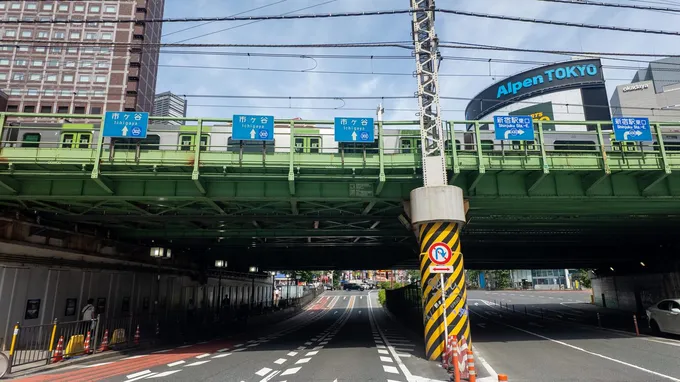
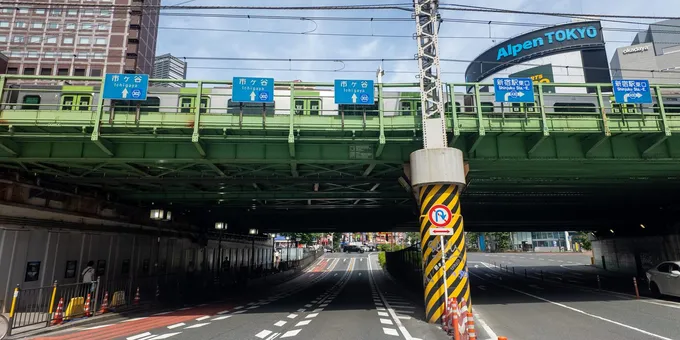
Shinjuku guide (WIP): register Shinjuku in the chain; hero-resize fix (T14)
- pocket_guides.json: Shinjuku Station entry; Osaka short label "Osaka" for the hub.
- w44, w45, w46, w48, w49, w55, w56: Shinjuku added to their guide lists; Narita and
  Haneda point on to Tokyo and Shinjuku; Shinjuku points on to the two airports.
- w47: rebuilds the hub block from the registry (writes only if it changed).
- w59: Shinjuku card on Travel Essentials; card image re-cropped to 680x340.
- w25, w31, w35, w36, w39, w42: without sips (Linux), resize the hero with Pillow and keep
  an existing -1600 copy, so a full rebuild no longer reverts the Haneda hero (T14).
Not yet built: w58 (article + Pocket Guide) and the full chain run.

Claude-Session: https://claude.ai/code/session_01AjjcPftVaxZBsLUzKXojdV

diff --git a/tools/w59_shinjuku_station_card.py b/tools/w59_shinjuku_station_card.py
@@ -1,0 +1,38 @@
+#!/usr/bin/env python3
+"""w59: Travel Essentials hub: add the Shinjuku Station card to the Stations section (after the last station card).
+Run from the repo root:  python3 tools/w59_shinjuku_station_card.py   (after w58 has built the article)
+Idempotent. Needs public/images/shinjuku-station-card-680.webp (crop of the PAKUTASO photo of the Shinjuku Ogado bridge).
+Only touches public/travel-essentials.html.
+"""
+import os, sys
+PAGE = "public/travel-essentials.html"
+IMG = "public/images/shinjuku-station-card-680.webp"
+if not os.path.exists(IMG):
+    sys.exit("missing " + IMG + " (copy it into public/images first)")
+if not os.path.exists(PAGE):
+    sys.exit("run this from the repo root (cannot find " + PAGE + ")")
+s = open(PAGE, encoding="utf-8").read()
+if 'href="/blog/shinjuku-station-guide" class="blog-card"' in s:
+    print("nothing to do (already applied)")
+    sys.exit(0)
+
+CARD = '''        <a href="/blog/shinjuku-station-guide" class="blog-card">
+            <img class="blog-card-img" src="/images/shinjuku-station-card-680.webp" alt="A green Yamanote Line train crossing the Shinjuku Ogado railway bridge" width="680" height="340" loading="lazy">
+            <div class="blog-card-body pg-body">
+                <span class="tag">Station Guide</span>
+                <h2>Shinjuku Station Guide 2026: West vs East Exits, Platforms and Luggage</h2>
+                <p>West or East side, which exit for where, the last Narita Express, airport buses from Busta Shinjuku, ATMs, lockers and luggage, and help in English.</p>
+                <div class="pg-meta"><span class="meta">November 22, 2026 &middot; 8 min read</span><span class="read-more">Read more &rarr;</span></div>
+                <span class="pg-strip"><b>Shinjuku Station Pocket Guide Inside</b><i>Works offline</i></span>
+            </div>
+        </a>
+'''
+a = s.index('id="stations"')
+end = '        </a>\n        </div>\n    </section>'
+j = s.find(end, a)
+if j < 0:
+    sys.exit("cannot find the end of the Stations section; page not changed")
+j += len('        </a>\n')
+s = s[:j] + CARD + s[j:]
+open(PAGE, "w", encoding="utf-8").write(s)
+print("changed:\n  - travel-essentials.html (Shinjuku Station card, Stations section)")

diff --git a/tools/w47_hub_phone.py b/tools/w47_hub_phone.py
@@ -5,7 +5,7 @@ pocket guide is, a 3-step "how to save it", and an iPhone-style home screen show
 Replaces the w46 block. Reads tools/pocket_guides.json (optional "short" per guide; default is the first word of the name).
 
 Run from the repo root, after w46:  python3 tools/w47_hub_phone.py
-Idempotent (marker pocket-hub-v3). The section keeps the old pocket-hub-v2 marker too, so re-running w46 will not bring the old block back.
+Idempotent: rebuilds the block from the registry and writes only if it changed (22 Nov 2026: was marker-only). The section keeps the old pocket-hub-v2 marker too, so re-running w46 will not bring the old block back.
 The phone has one "home screen page" per country (switch with the country buttons or the dots), each showing at most PAGE_MAX icons.
 A "See all N pocket guides" button (-> ALL_URL, create that page FIRST) appears if any country has more than PAGE_MAX guides or there are more than MAX_COUNTRIES countries.
 With one country it looks exactly like the single-country version (a "Japan . 6 guides" label, no buttons).
@@ -155,14 +155,15 @@ def build_section():
 
 
 hub = open(HUB, encoding="utf-8").read()
-if MARK in hub:
-    print("nothing to do (already applied)")
-    sys.exit(0)
+# v3 already applied: rebuild from the registry anyway (a new guide must appear); write only if something changed
 if 'id="pocket-hub"' not in hub or 'id="pocket-hub-css"' not in hub:
     die("hub block not found; run w45 and w46 first")
 h2, n1 = re.subn(r'<style id="pocket-hub-css">.*?</style>\n', lambda m: CSS, hub, count=1, flags=re.S)
 h2, n2 = re.subn(r'<section class="pocket-hub" id="pocket-hub".*?</section>', lambda m: build_section(), h2, count=1, flags=re.S)
 if n1 != 1 or n2 != 1:
     die("could not replace the hub block cleanly")
+if h2 == hub:
+    print("nothing to do (already up to date)")
+    sys.exit(0)
 open(HUB, "w", encoding="utf-8").write(h2)
-print("changed:\n  - public/travel-essentials.html (pocket guides block v3)")
+print("changed:\n  - public/travel-essentials.html (pocket guides block v3, rebuilt from the registry)")

diff --git a/tools/w48_japan_articles_block.py b/tools/w48_japan_articles_block.py
@@ -73,9 +73,9 @@ ARTICLES = {
                            "Arriving in Osaka? Get the airport and station guides on your phone.", SUB,
                            "before", '<h2 id="areas">'),
     # airport and station guides: card right after the "on one page" box and its QR code; the page's own guide is left out; the next stops lead
-    "narita-airport-guide": ("narita-airport", ["tokyo"], "Heading into Tokyo? Get the next guides on your phone.", SUB_NEXT,
+    "narita-airport-guide": ("narita-airport", ["tokyo", "shinjuku"], "Heading into Tokyo? Get the next guides on your phone.", SUB_NEXT,
                              "before", '<h2 id="terminals">', ["narita"]),
-    "haneda-airport-guide": ("haneda-airport", ["tokyo"], "Heading into Tokyo? Get the next guides on your phone.", SUB_NEXT,
+    "haneda-airport-guide": ("haneda-airport", ["tokyo", "shinjuku"], "Heading into Tokyo? Get the next guides on your phone.", SUB_NEXT,
                              "before", '<h2 id="terminals">', ["haneda"]),
     "kansai-airport-guide": ("kansai-airport", ["osaka", "kyoto"], "Heading into the city? Get the next guides on your phone.", SUB_NEXT,
                              "before", '<h2 id="terminals">', ["kix"]),
@@ -85,6 +85,8 @@ ARTICLES = {
                             "before", '<h2 id="which-side">', ["kyoto"]),
     "osaka-station-guide": ("osaka-station", ["kyoto", "kix"], "Heading on? Get the next guides on your phone.", SUB_NEXT,
                             "before", '<h2 id="which-station">', ["osaka"]),
+    "shinjuku-station-guide": ("shinjuku-station", ["narita", "haneda"], "Flying out or heading on? Get the next guides on your phone.", SUB_NEXT,
+                               "before", '<h2 id="which-side">', ["shinjuku"]),
 }
 
 CSS = """<style id="pga-css">

diff --git a/tools/w45_pocket_crosslinks.py b/tools/w45_pocket_crosslinks.py
@@ -31,19 +31,22 @@ G = {
     "osaka": ("Shin-Osaka and Umeda", "\U0001F689", "Shin-Osaka and Osaka/Umeda, platforms, lockers", "stn"),
     "kyoto": ("Kyoto Station", "\U0001F689", "Central and Hachijo sides, platforms, buses, lockers", "stn"),
     "tokyo": ("Tokyo Station", "\U0001F689", "Marunouchi and Yaesu sides, Shinkansen platforms, lockers", "stn"),
+    "shinjuku": ("Shinjuku Station", "\U0001F689", "West and East sides, Narita Express, airport buses, lockers", "stn"),
 }
-ORDER = ["haneda", "narita", "kix", "tokyo", "kyoto", "osaka"]
+ORDER = ["haneda", "narita", "kix", "tokyo", "shinjuku", "kyoto", "osaka"]
 NEXT = {
-    "narita": ["tokyo"], "haneda": ["tokyo"], "kix": ["osaka", "kyoto"],
+    "narita": ["tokyo", "shinjuku"], "haneda": ["tokyo", "shinjuku"], "kix": ["osaka", "kyoto"],
     "tokyo": ["kyoto", "osaka"], "kyoto": ["osaka", "kix"], "osaka": ["kyoto", "kix"],
+    "shinjuku": ["narita", "haneda"],
 }
 HEAD = {
-    "narita": ("Heading into Tokyo?", "Your next pocket guide."),
-    "haneda": ("Heading into Tokyo?", "Your next pocket guide."),
+    "narita": ("Heading into Tokyo?", "Your next pocket guides."),
+    "haneda": ("Heading into Tokyo?", "Your next pocket guides."),
     "kix": ("Heading into the city?", "Your next pocket guides."),
     "tokyo": ("Heading on by Shinkansen?", "Your next pocket guides."),
     "kyoto": ("Heading on?", "Your next pocket guides."),
     "osaka": ("Heading on?", "Your next pocket guides."),
+    "shinjuku": ("Flying out?", "Your airport pocket guides."),
 }
 SAVE_LINE = " Open it while you have signal, then add it to your home screen."
 

diff --git a/tools/w25_narita_airport_page.py b/tools/w25_narita_airport_page.py
@@ -635,9 +635,19 @@ def prepare_hero():
                            check=True, stdout=subprocess.DEVNULL, stderr=subprocess.DEVNULL)
             note = "narita-airport-hero-1600.jpg (optimised from your photo)"
         except Exception:
-            if src.lower().endswith(".jpg"):
-                return "/images/" + os.path.basename(src), "using the original photo (could not optimise it here)"
-            return None, None
+            # no sips (Linux): resize with Pillow, else keep an existing optimised copy (T14)
+            try:
+                from PIL import Image
+                _im = Image.open(src).convert("RGB")
+                _im.thumbnail((1600, 1600))
+                if not os.path.isfile(dst):  # keep an existing optimised copy as is
+                    _im.save(dst, "JPEG", quality=72, optimize=True, progressive=True)
+                    note = os.path.basename(dst) + " (optimised from your photo)"
+            except Exception:
+                if not os.path.isfile(dst):
+                    if src.lower().endswith(".jpg"):
+                        return "/images/" + os.path.basename(src), "using the original photo (could not optimise it here)"
+                    return None, None
     return "/images/narita-airport-hero-1600.jpg", note
 
 HERO_URL, HERO_NOTE = prepare_hero()

diff --git a/tools/w31_haneda_airport_page.py b/tools/w31_haneda_airport_page.py
@@ -649,9 +649,19 @@ def prepare_hero():
                            check=True, stdout=subprocess.DEVNULL, stderr=subprocess.DEVNULL)
             note = "haneda-airport-hero-1600.jpg (optimised from your photo)"
         except Exception:
-            if src.lower().endswith(".jpg"):
-                return "/images/" + os.path.basename(src), "using the original photo (could not optimise it here)"
-            return None, None
+            # no sips (Linux): resize with Pillow, else keep an existing optimised copy (T14)
+            try:
+                from PIL import Image
+                _im = Image.open(src).convert("RGB")
+                _im.thumbnail((1600, 1600))
+                if not os.path.isfile(dst):  # keep an existing optimised copy as is
+                    _im.save(dst, "JPEG", quality=72, optimize=True, progressive=True)
+                    note = os.path.basename(dst) + " (optimised from your photo)"
+            except Exception:
+                if not os.path.isfile(dst):
+                    if src.lower().endswith(".jpg"):
+                        return "/images/" + os.path.basename(src), "using the original photo (could not optimise it here)"
+                    return None, None
     return "/images/haneda-airport-hero-1600.jpg", note
 
 HERO_URL, HERO_NOTE = prepare_hero()

diff --git a/tools/w35_kansai_airport_page.py b/tools/w35_kansai_airport_page.py
@@ -612,9 +612,19 @@ def prepare_hero():
                            check=True, stdout=subprocess.DEVNULL, stderr=subprocess.DEVNULL)
             note = "kansai-airport-hero-1600.jpg (optimised from your photo)"
         except Exception:
-            if src.lower().endswith(".jpg"):
-                return "/images/" + os.path.basename(src), "using the original photo (could not optimise it here)"
-            return None, None
+            # no sips (Linux): resize with Pillow, else keep an existing optimised copy (T14)
+            try:
+                from PIL import Image
+                _im = Image.open(src).convert("RGB")
+                _im.thumbnail((1600, 1600))
+                if not os.path.isfile(dst):  # keep an existing optimised copy as is
+                    _im.save(dst, "JPEG", quality=72, optimize=True, progressive=True)
+                    note = os.path.basename(dst) + " (optimised from your photo)"
+            except Exception:
+                if not os.path.isfile(dst):
+                    if src.lower().endswith(".jpg"):
+                        return "/images/" + os.path.basename(src), "using the original photo (could not optimise it here)"
+                    return None, None
     return "/images/kansai-airport-hero-1600.jpg", note
 
 HERO_URL, HERO_NOTE = prepare_hero()

diff --git a/tools/w36_osaka_station_page.py b/tools/w36_osaka_station_page.py
@@ -559,9 +559,19 @@ def prepare_hero():
                            check=True, stdout=subprocess.DEVNULL, stderr=subprocess.DEVNULL)
             note = "osaka-station-hero-1600.jpg (optimised from your photo)"
         except Exception:
-            if src.lower().endswith(".jpg"):
-                return "/images/" + os.path.basename(src), "using the original photo (could not optimise it here)"
-            return None, None
+            # no sips (Linux): resize with Pillow, else keep an existing optimised copy (T14)
+            try:
+                from PIL import Image
+                _im = Image.open(src).convert("RGB")
+                _im.thumbnail((1600, 1600))
+                if not os.path.isfile(dst):  # keep an existing optimised copy as is
+                    _im.save(dst, "JPEG", quality=72, optimize=True, progressive=True)
+                    note = os.path.basename(dst) + " (optimised from your photo)"
+            except Exception:
+                if not os.path.isfile(dst):
+                    if src.lower().endswith(".jpg"):
+                        return "/images/" + os.path.basename(src), "using the original photo (could not optimise it here)"
+                    return None, None
     return "/images/osaka-station-hero-1600.jpg", note
 
 HERO_URL, HERO_NOTE = prepare_hero()

diff --git a/tools/w39_kyoto_station_page.py b/tools/w39_kyoto_station_page.py
@@ -564,9 +564,19 @@ def prepare_hero():
                            check=True, stdout=subprocess.DEVNULL, stderr=subprocess.DEVNULL)
             note = "kyoto-station-hero-1600.jpg (optimised from your photo)"
         except Exception:
-            if src.lower().endswith(".jpg"):
-                return "/images/" + os.path.basename(src), "using the original photo (could not optimise it here)"
-            return None, None
+            # no sips (Linux): resize with Pillow, else keep an existing optimised copy (T14)
+            try:
+                from PIL import Image
+                _im = Image.open(src).convert("RGB")
+                _im.thumbnail((1600, 1600))
+                if not os.path.isfile(dst):  # keep an existing optimised copy as is
+                    _im.save(dst, "JPEG", quality=72, optimize=True, progressive=True)
+                    note = os.path.basename(dst) + " (optimised from your photo)"
+            except Exception:
+                if not os.path.isfile(dst):
+                    if src.lower().endswith(".jpg"):
+                        return "/images/" + os.path.basename(src), "using the original photo (could not optimise it here)"
+                    return None, None
     return "/images/kyoto-station-hero-1600.jpg", note
 
 HERO_URL, HERO_NOTE = prepare_hero()

diff --git a/tools/w42_tokyo_station_page.py b/tools/w42_tokyo_station_page.py
@@ -567,9 +567,19 @@ def prepare_hero():
                            check=True, stdout=subprocess.DEVNULL, stderr=subprocess.DEVNULL)
             note = "tokyo-station-hero-1600.jpg (optimised from your photo)"
         except Exception:
-            if src.lower().endswith(".jpg"):
-                return "/images/" + os.path.basename(src), "using the original photo (could not optimise it here)"
-            return None, None
+            # no sips (Linux): resize with Pillow, else keep an existing optimised copy (T14)
+            try:
+                from PIL import Image
+                _im = Image.open(src).convert("RGB")
+                _im.thumbnail((1600, 1600))
+                if not os.path.isfile(dst):  # keep an existing optimised copy as is
+                    _im.save(dst, "JPEG", quality=72, optimize=True, progressive=True)
+                    note = os.path.basename(dst) + " (optimised from your photo)"
+            except Exception:
+                if not os.path.isfile(dst):
+                    if src.lower().endswith(".jpg"):
+                        return "/images/" + os.path.basename(src), "using the original photo (could not optimise it here)"
+                    return None, None
     return "/images/tokyo-station-hero-1600.jpg", note
 
 HERO_URL, HERO_NOTE = prepare_hero()

diff --git a/tools/w56_pocket_review_fixes.py b/tools/w56_pocket_review_fixes.py
@@ -22,7 +22,7 @@ What it does
 import json, pathlib, re, sys
 
 PUB = pathlib.Path(__file__).resolve().parent.parent / "public"
-PAGES = ["narita", "haneda", "kix", "kyoto", "osaka", "tokyo"]
+PAGES = ["narita", "haneda", "kix", "kyoto", "osaka", "tokyo", "shinjuku"]
 CHECKED = "21 November 2026"
 OK = "Ready offline &#10003;"
 
@@ -215,5 +215,5 @@ def fix_article(path):
 
 for key in PAGES:
     fix_pocket(key)
-for art in ["narita-airport-guide", "haneda-airport-guide", "kansai-airport-guide", "tokyo-station-guide", "kyoto-station-guide", "osaka-station-guide"]:
+for art in ["narita-airport-guide", "haneda-airport-guide", "kansai-airport-guide", "tokyo-station-guide", "kyoto-station-guide", "osaka-station-guide", "shinjuku-station-guide"]:
     fix_article(PUB / "blog" / f"{art}.html")

diff --git a/tools/w55_pocket_whatsapp.py b/tools/w55_pocket_whatsapp.py
@@ -16,7 +16,7 @@ import pathlib, re, sys
 from urllib.parse import quote
 
 PUB = pathlib.Path(__file__).resolve().parent.parent / "public"
-PAGES = ["narita", "haneda", "kix", "kyoto", "osaka", "tokyo"]
+PAGES = ["narita", "haneda", "kix", "kyoto", "osaka", "tokyo", "shinjuku"]
 
 ICON = ('<svg viewBox="0 0 24 24" width="28" height="28" aria-hidden="true" focusable="false">'
         '<path d="M12 2.6a9.4 9.4 0 0 0-8 14.3L2.8 21.4l4.6-1.2A9.4 9.4 0 1 0 12 2.6z" fill="none" stroke="#fff" stroke-width="1.7" stroke-linejoin="round"/>'
